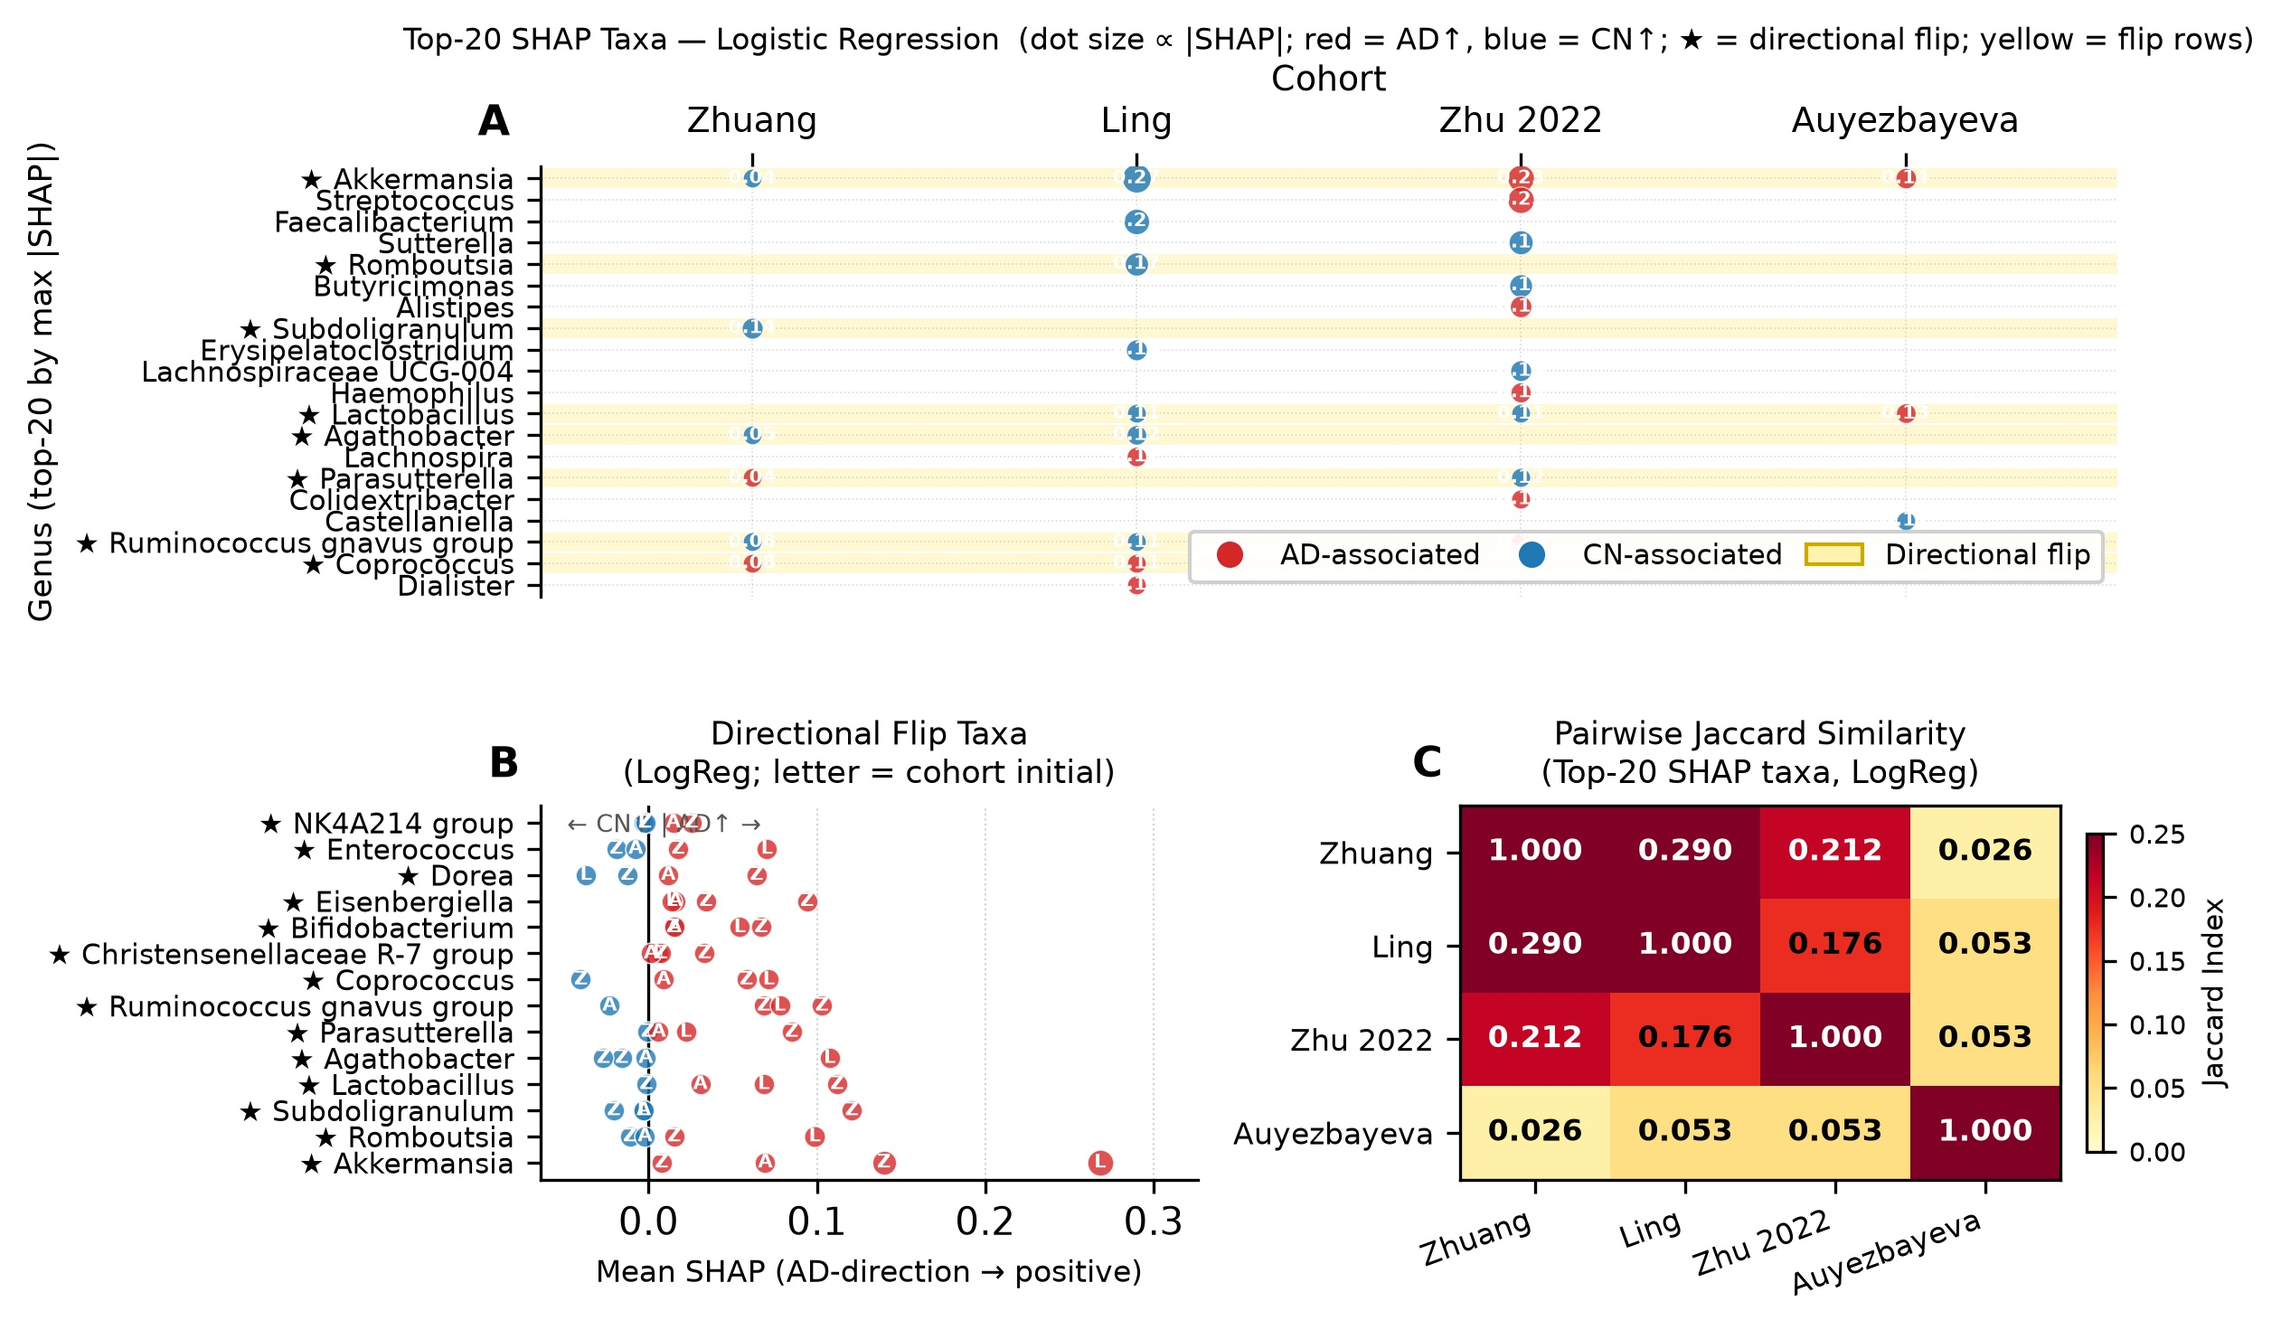
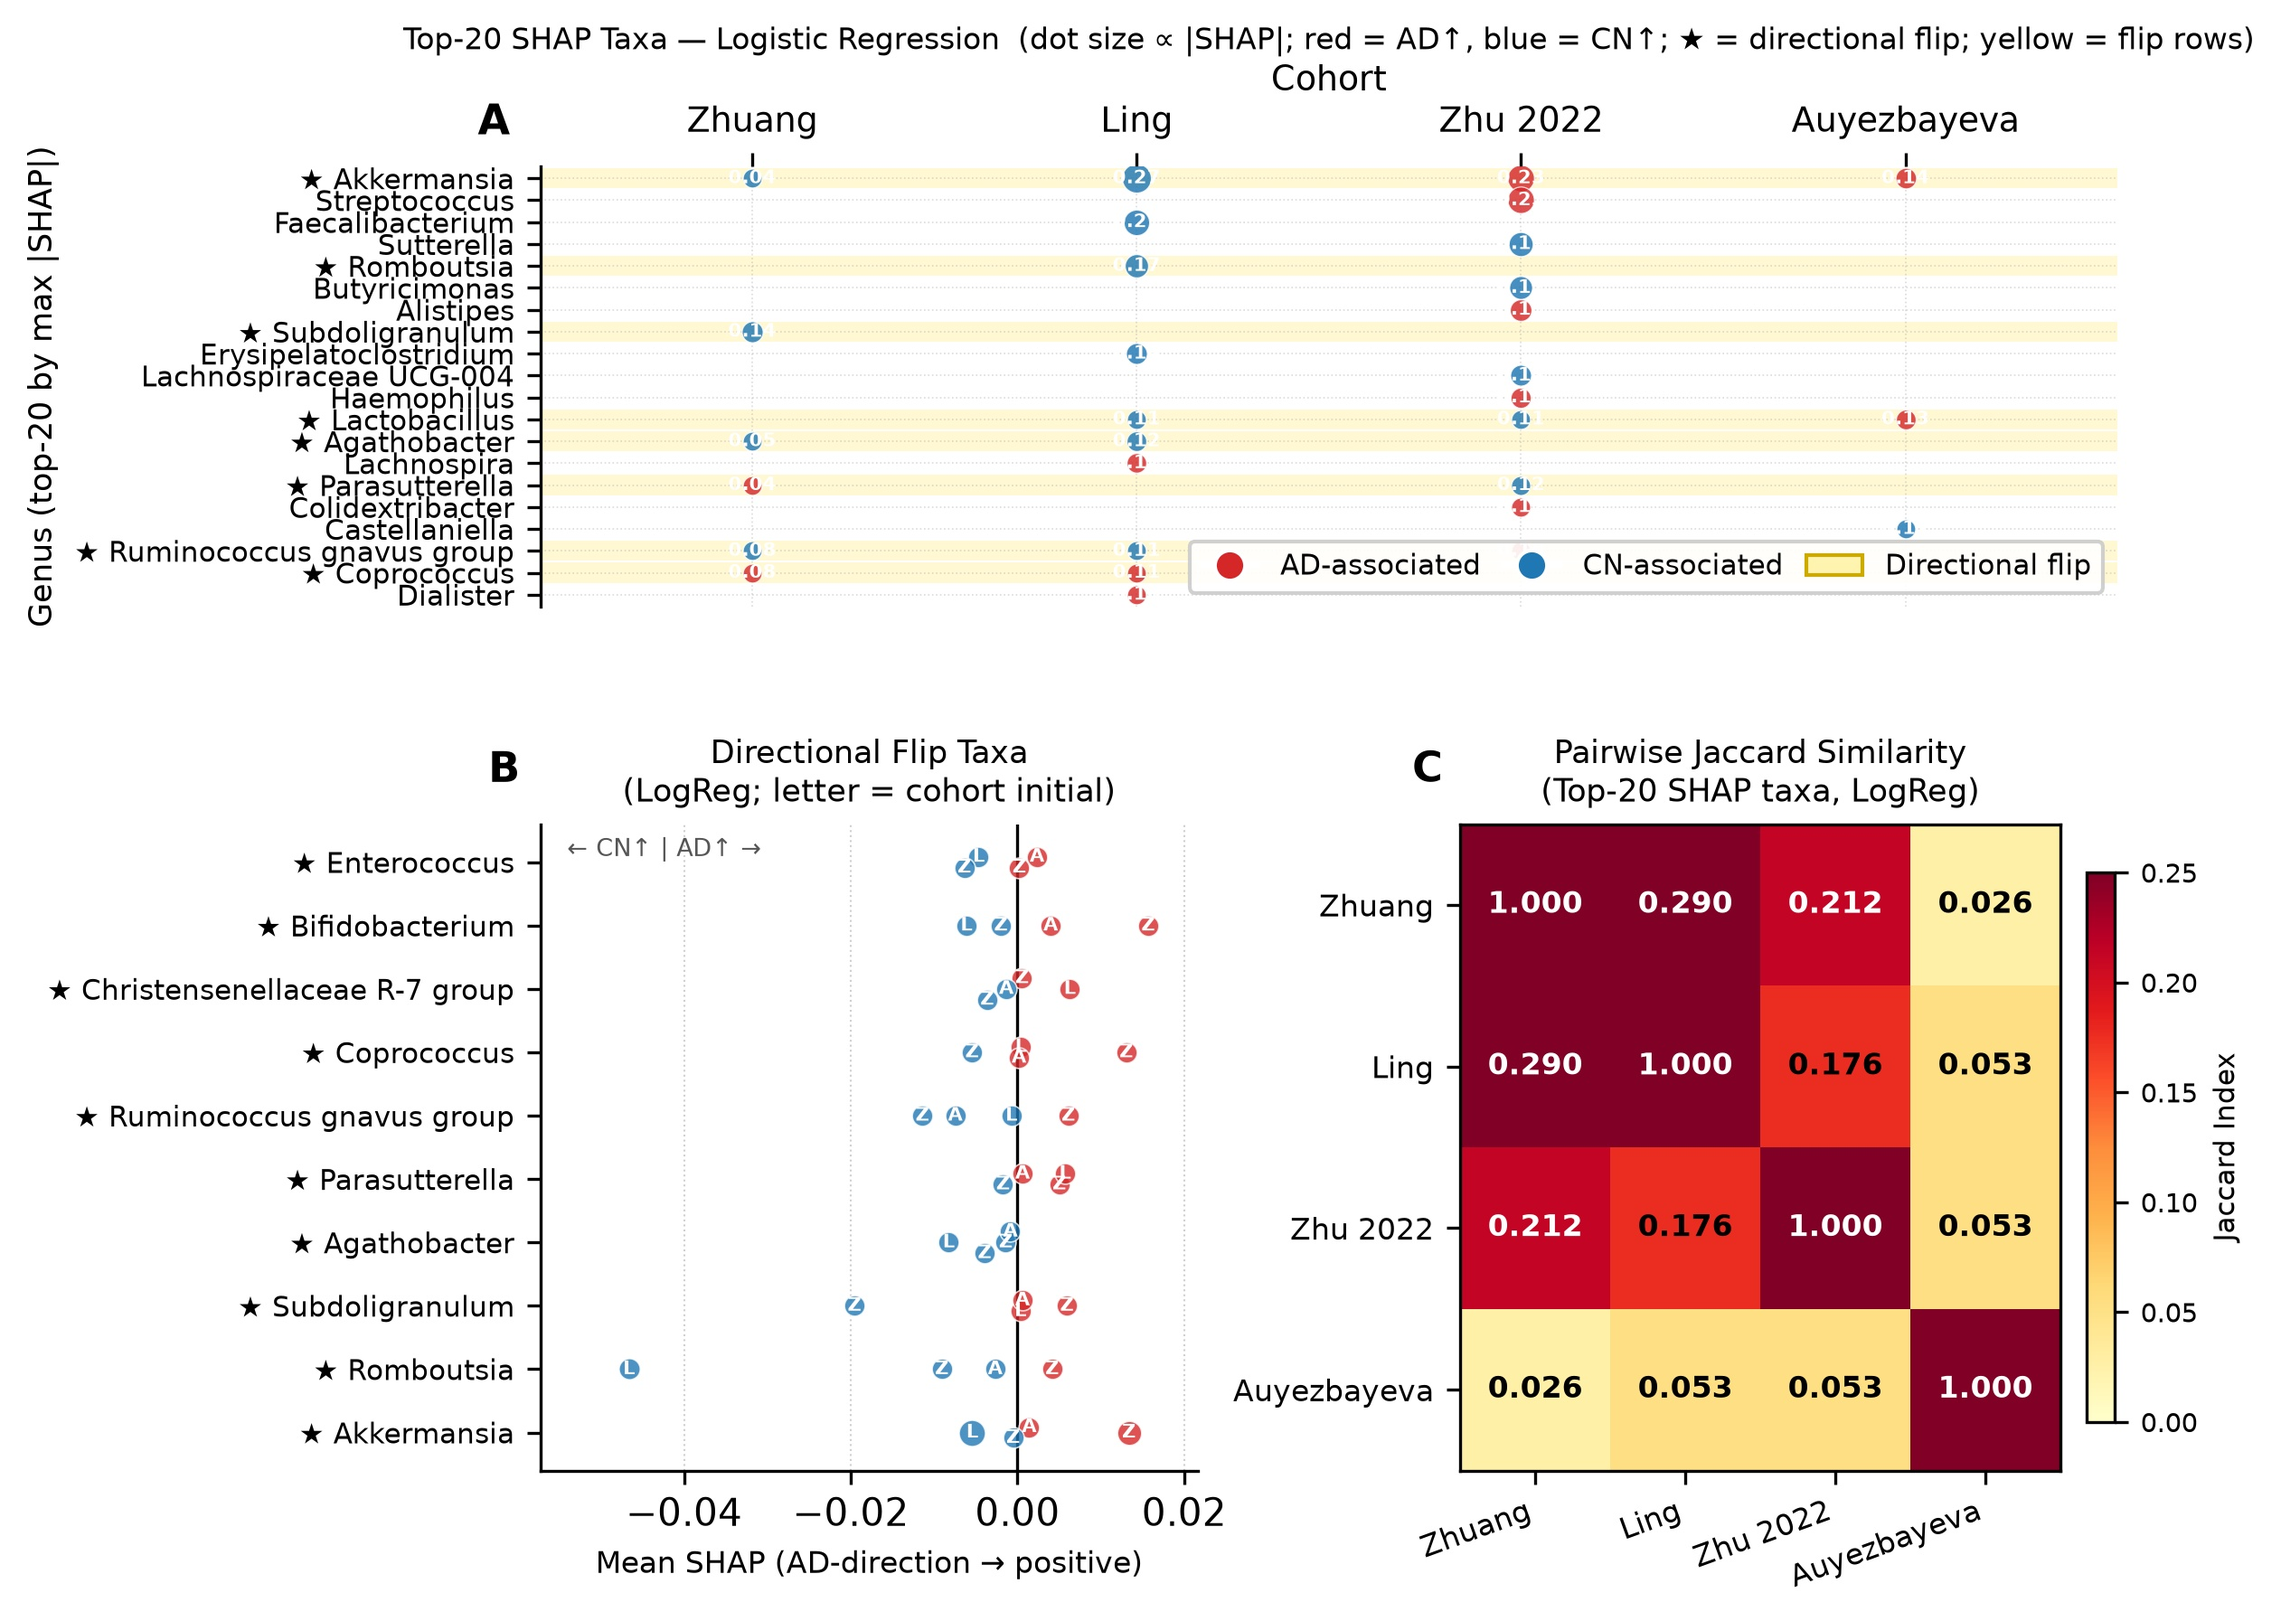
Fix Fig6 Panel B crowding, directory cleanup, resolve S4/S5

Changed region(s): [[0.0, 0.0, 0.9893, 0.9789], [0.5565, 0.826, 0.6183, 0.8872]]

diff --git a/scripts/generate_manuscript_figures.py b/scripts/generate_manuscript_figures.py
@@ -591,14 +591,14 @@ def make_fig6():
     flip_df  = pd.read_csv(f"{TABLES}/shap_directional_flips.csv")
     over_df  = pd.read_csv(f"{TABLES}/shap_taxa_overlap.csv")
 
-    fig_h = WIDTH_IN * 0.62
+    fig_h = WIDTH_IN * 0.78
     fig = plt.figure(figsize=(WIDTH_IN, fig_h), dpi=DPI)
     fig.patch.set_facecolor("white")
     gs = gridspec.GridSpec(2, 2, figure=fig,
-                           height_ratios=[1.15, 1.0],
-                           hspace=0.52, wspace=0.40,
+                           height_ratios=[0.92, 1.35],
+                           hspace=0.40, wspace=0.40,
                            left=0.15, right=0.97,
-                           top=0.93, bottom=0.08)
+                           top=0.94, bottom=0.07)
     ax_a = fig.add_subplot(gs[0, :])   # top full-width
     ax_b = fig.add_subplot(gs[1, 0])   # bottom-left
     ax_c = fig.add_subplot(gs[1, 1])   # bottom-right
@@ -702,26 +702,70 @@ def make_fig6():
 
     flip_sub = flip_sub.sort_values("rank").drop_duplicates(["taxon","cohort"])
 
+    # Drop taxa with essentially zero signal everywhere (all cohorts within
+    # +/-0.005 of x=0) -- these add visual noise without conveying anything;
+    # a "flip" between two near-zero values isn't a real directional signal.
+    ZERO_SIGNAL_THRESH = 0.005
+    max_abs_by_taxon = flip_sub.groupby("taxon")["mean_shap"].apply(
+        lambda s: s.abs().max())
+    real_signal_taxa = set(max_abs_by_taxon[max_abs_by_taxon > ZERO_SIGNAL_THRESH].index)
+    dropped_taxa = set(max_abs_by_taxon.index) - real_signal_taxa
+    if dropped_taxa:
+        print(f"    Panel B: dropping {len(dropped_taxa)} near-zero-signal taxa "
+              f"(all cohorts within +/-{ZERO_SIGNAL_THRESH}): {sorted(dropped_taxa)}")
+    flip_sub = flip_sub[flip_sub["taxon"].isin(real_signal_taxa)]
+
     taxa_flip_order = (flip_sub.groupby("taxon")["mean_abs_shap"].max()
                                .sort_values(ascending=False).index.tolist())
 
-    for _, row in flip_sub.iterrows():
-        t = row["taxon"]
-        c = row["cohort"]
-        if t not in taxa_flip_order: continue
-        yy = taxa_flip_order.index(t)
-        shap_v = row["mean_shap_AD"] - row["mean_shap_CN"]
-        size = max(30, abs(row["mean_abs_shap"]) * 180)
-        color = AD_COL if shap_v > 0 else CN_COL
-        ax_b.scatter(shap_v, yy, s=size, color=color, alpha=0.8,
-                     zorder=3, linewidths=0.4, edgecolors="white")
-        ax_b.text(shap_v, yy, COHORT_SHORT_FLAT[c][0],
-                  ha="center", va="center", fontsize=5,
-                  color="white", fontweight="bold", zorder=4)
+    # Vertical stagger for dots that crowd together in x within the same row:
+    # deterministic (sorted-x, symmetric spread), not random -- exactly
+    # reproducible without needing to carry a seed. Horizontal position is
+    # never touched: it's the actual mean_shap value being reported.
+    CLUSTER_X_THRESH = 0.003
+    STAGGER_STEP     = 0.17
+
+    def stagger_offsets(xs: np.ndarray) -> np.ndarray:
+        order = np.argsort(xs)
+        offsets = np.zeros(len(xs))
+        cluster = [order[0]]
+        for idx in order[1:]:
+            if xs[idx] - xs[cluster[-1]] <= CLUSTER_X_THRESH:
+                cluster.append(idx)
+            else:
+                if len(cluster) > 1:
+                    spread = np.linspace(-(len(cluster)-1)/2, (len(cluster)-1)/2,
+                                         len(cluster)) * STAGGER_STEP
+                    for off, i in zip(spread, cluster):
+                        offsets[i] = off
+                cluster = [idx]
+        if len(cluster) > 1:
+            spread = np.linspace(-(len(cluster)-1)/2, (len(cluster)-1)/2,
+                                 len(cluster)) * STAGGER_STEP
+            for off, i in zip(spread, cluster):
+                offsets[i] = off
+        return offsets
+
+    for taxon in taxa_flip_order:
+        t_rows = flip_sub[flip_sub["taxon"] == taxon]
+        xs = t_rows["mean_shap"].to_numpy()
+        y_offsets = stagger_offsets(xs)
+        yy_base = taxa_flip_order.index(taxon)
+        for (_, row), y_off in zip(t_rows.iterrows(), y_offsets):
+            c = row["cohort"]
+            shap_v = row["mean_shap"]
+            size = max(30, abs(row["mean_abs_shap"]) * 180)
+            color = AD_COL if shap_v > 0 else CN_COL
+            ax_b.scatter(shap_v, yy_base + y_off, s=size, color=color, alpha=0.8,
+                         zorder=3, linewidths=0.4, edgecolors="white")
+            ax_b.text(shap_v, yy_base + y_off, COHORT_SHORT_FLAT[c][0],
+                      ha="center", va="center", fontsize=5,
+                      color="white", fontweight="bold", zorder=4)
 
     ax_b.axvline(0, color="black", lw=0.8, zorder=2)
     ax_b.set_yticks(range(len(taxa_flip_order)))
     ax_b.set_yticklabels([f"★ {t}" for t in taxa_flip_order], fontsize=7.5)
+    ax_b.set_ylim(-0.6, len(taxa_flip_order) - 0.4)
     ax_b.set_xlabel("Mean SHAP (AD-direction → positive)", fontsize=8)
     ax_b.set_title("Directional Flip Taxa\n(LogReg; letter = cohort initial)", fontsize=8.5)
     ax_b.set_xlim(ax_b.get_xlim()[0] * 1.15, ax_b.get_xlim()[1] * 1.15)
